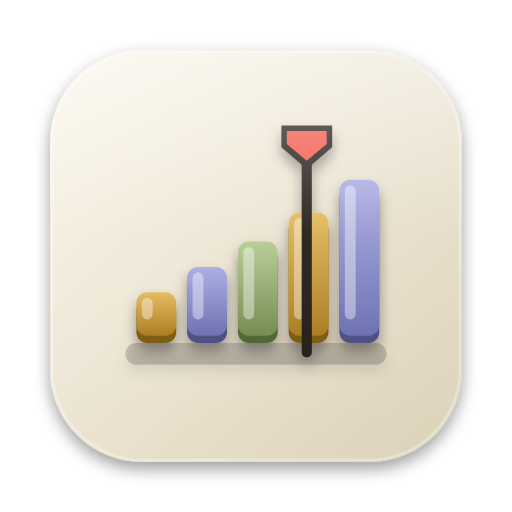
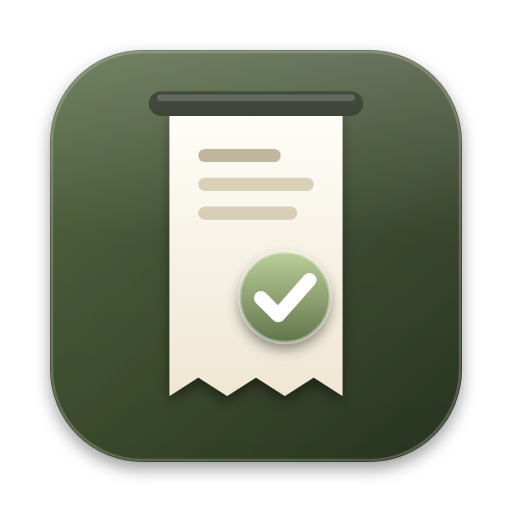
Novo icone: notinha imprimindo com check (oliva), animado no carregamento; troca em todos os icones do app
Claude-Session: https://claude.ai/code/session_01UJdyf8uUHnwzZ7wv9UqNQo

diff --git a/src/main.js b/src/main.js
@@ -860,7 +860,32 @@ function showToast(msg, undoFn){
 
 /* ---------------- marca Ritmo ---------------- */
 // icone (versao creme aprovada em 2026-09-27) desenhado aqui mesmo, sem arquivo
-const RITMO_ICONE = `<svg viewBox="0 0 1024 1024" aria-hidden="true"><defs><linearGradient id="rtmbg" x1="0" y1="0" x2="1" y2="1"><stop offset="0" stop-color="#FBF6EA"/><stop offset="1" stop-color="#DCD1B8"/></linearGradient><linearGradient id="rtmgl" x1="0" y1="0" x2="0" y2="1"><stop offset="0" stop-color="#fff" stop-opacity=".42"/><stop offset=".45" stop-color="#fff" stop-opacity=".06"/><stop offset="1" stop-color="#fff" stop-opacity="0"/></linearGradient><filter id="rtmsh" x="-10%" y="-10%" width="120%" height="130%"><feDropShadow dx="0" dy="14" stdDeviation="16" flood-opacity=".38"/></filter><filter id="rtmps"><feDropShadow dx="0" dy="2.2" stdDeviation="1.8" flood-color="#0b0a08" flood-opacity=".38"/></filter></defs><rect x="100" y="100" width="824" height="824" rx="185" fill="url(#rtmbg)"/><svg x="100" y="100" width="824" height="824" viewBox="0 0 100 100"><g transform="translate(6 6) scale(.88)" filter="url(#rtmps)"><defs><linearGradient id="rtmac0" x1="0" y1="0" x2="0" y2="1"><stop offset="0" stop-color="#E5B95C"/><stop offset="1" stop-color="#A87A1C"/></linearGradient><linearGradient id="rtmac1" x1="0" y1="0" x2="0" y2="1"><stop offset="0" stop-color="#A9ABE2"/><stop offset="1" stop-color="#6A6DB0"/></linearGradient><linearGradient id="rtmac2" x1="0" y1="0" x2="0" y2="1"><stop offset="0" stop-color="#B6CB93"/><stop offset="1" stop-color="#71884C"/></linearGradient><linearGradient id="rtmac3" x1="0" y1="0" x2="0" y2="1"><stop offset="0" stop-color="#E5B95C"/><stop offset="1" stop-color="#A87A1C"/></linearGradient><linearGradient id="rtmac4" x1="0" y1="0" x2="0" y2="1"><stop offset="0" stop-color="#A9ABE2"/><stop offset="1" stop-color="#6A6DB0"/></linearGradient></defs><rect x="14" y="74" width="72" height="6" rx="3" fill="#2B2620" opacity="0.22"/><rect x="17" y="62" width="11" height="12" rx="3" fill="#7A5810"/><rect x="17" y="60" width="11" height="12" rx="3" fill="url(#rtmac0)"/><rect x="18.5" y="61.5" width="3" height="6" rx="1.5" fill="#fff" opacity=".4"/><rect x="31" y="55" width="11" height="19" rx="3" fill="#4A4C81"/><rect x="31" y="53" width="11" height="19" rx="3" fill="url(#rtmac1)"/><rect x="32.5" y="54.5" width="3" height="13" rx="1.5" fill="#fff" opacity=".4"/><rect x="45" y="48" width="11" height="26" rx="3" fill="#4E6333"/><rect x="45" y="46" width="11" height="26" rx="3" fill="url(#rtmac2)"/><rect x="46.5" y="47.5" width="3" height="20" rx="1.5" fill="#fff" opacity=".4"/><rect x="59" y="40" width="11" height="34" rx="3" fill="#7A5810"/><rect x="59" y="38" width="11" height="34" rx="3" fill="url(#rtmac3)"/><rect x="60.5" y="39.5" width="3" height="28" rx="1.5" fill="#fff" opacity=".4"/><rect x="73" y="31" width="11" height="43" rx="3" fill="#4A4C81"/><rect x="73" y="29" width="11" height="43" rx="3" fill="url(#rtmac4)"/><rect x="74.5" y="30.5" width="3" height="37" rx="1.5" fill="#fff" opacity=".4"/><rect x="62.6" y="20" width="2.8" height="58" rx="1.4" fill="#211D18"/><path d="M57 14h14v6l-7 6-7-6z" fill="#211D18"/><path d="M58.5 15.5h11v3.6l-5.5 4.6-5.5-4.6z" fill="#F4574B"/></g></svg><rect x="100" y="100" width="824" height="824" rx="185" fill="url(#rtmgl)"/><rect x="104" y="104" width="816" height="816" rx="181" fill="none" stroke="#fff" stroke-opacity=".32" stroke-width="5"/></svg>`;
+// marca: notinha saindo da maquininha com o check. Parada no cabecalho (o render
+// recria a tela a cada acao, a animacao reiniciaria); animada so no carregamento.
+const RITMO_ICONE = `<svg viewBox="0 0 1024 1024" aria-hidden="true"><defs><linearGradient id="rtmbg" x1="0" y1="0" x2="1" y2="1"><stop offset="0" stop-color="#4D6039"/><stop offset="1" stop-color="#27321F"/></linearGradient><linearGradient id="rtmgl" x1="0" y1="0" x2="0" y2="1"><stop offset="0" stop-color="#fff" stop-opacity=".22"/><stop offset=".45" stop-color="#fff" stop-opacity=".03"/><stop offset="1" stop-color="#fff" stop-opacity="0"/></linearGradient><filter id="rtmsh" x="-10%" y="-10%" width="120%" height="130%"><feDropShadow dx="0" dy="14" stdDeviation="16" flood-opacity=".38"/></filter></defs><rect x="100" y="100" width="824" height="824" rx="185" fill="url(#rtmbg)"/><svg x="100" y="100" width="824" height="824" viewBox="0 0 100 100"><defs>
+<linearGradient id="rtmsg" x1="0" y1="0" x2="0" y2="1"><stop offset="0" stop-color="#B9CE97"/><stop offset="1" stop-color="#5F7248"/></linearGradient>
+<linearGradient id="rtmpp" x1="0" y1="0" x2="0" y2="1"><stop offset="0" stop-color="#FFFDF7"/><stop offset="1" stop-color="#EFE7D3"/></linearGradient>
+<filter id="rtmps" x="-20%" y="-10%" width="140%" height="130%"><feDropShadow dx="0" dy="1.6" stdDeviation="1.6" flood-color="#0b0f07" flood-opacity=".45"/></filter>
+<clipPath id="rtmcl"><rect x="0" y="16" width="100" height="90"/></clipPath></defs>
+<g clip-path="url(#rtmcl)"><g filter="url(#rtmps)">
+<path d="M29 14h42v70l-7-4.5-7 4.5-7-4.5-7 4.5-7-4.5-7 4.5z" fill="url(#rtmpp)"/>
+<rect x="36" y="24" width="20" height="3.2" rx="1.6" fill="#B9AE92"/><rect x="36" y="31" width="28" height="3.2" rx="1.6" fill="#D6CCB2"/><rect x="36" y="38" width="24" height="3.2" rx="1.6" fill="#D6CCB2"/>
+</g></g>
+<rect x="24" y="10" width="52" height="6" rx="3" fill="#1B2415"/><rect x="26" y="10.8" width="48" height="1.6" rx=".8" fill="#fff" opacity=".18"/>
+<g style="transform-box:fill-box;transform-origin:center"><circle cx="57" cy="60" r="11" fill="url(#rtmsg)" filter="url(#rtmps)"/><circle cx="57" cy="60" r="11" fill="none" stroke="#fff" stroke-opacity=".35" stroke-width=".8"/></g>
+<path d="M51.2 60.2l4.2 4.2 7.6-8.6" pathLength="1" fill="none" stroke="#fff" stroke-width="3.4" stroke-linecap="round" stroke-linejoin="round"/></svg><rect x="100" y="100" width="824" height="824" rx="185" fill="url(#rtmgl)"/><rect x="104" y="104" width="816" height="816" rx="181" fill="none" stroke="#fff" stroke-opacity=".2" stroke-width="5"/></svg>`;
+const RITMO_ICONE_ANIM = `<svg viewBox="0 0 1024 1024" aria-hidden="true"><defs><linearGradient id="rtabg" x1="0" y1="0" x2="1" y2="1"><stop offset="0" stop-color="#4D6039"/><stop offset="1" stop-color="#27321F"/></linearGradient><linearGradient id="rtagl" x1="0" y1="0" x2="0" y2="1"><stop offset="0" stop-color="#fff" stop-opacity=".22"/><stop offset=".45" stop-color="#fff" stop-opacity=".03"/><stop offset="1" stop-color="#fff" stop-opacity="0"/></linearGradient><filter id="rtash" x="-10%" y="-10%" width="120%" height="130%"><feDropShadow dx="0" dy="14" stdDeviation="16" flood-opacity=".38"/></filter></defs><rect x="100" y="100" width="824" height="824" rx="185" fill="url(#rtabg)"/><svg x="100" y="100" width="824" height="824" viewBox="0 0 100 100"><defs>
+<linearGradient id="rtasg" x1="0" y1="0" x2="0" y2="1"><stop offset="0" stop-color="#B9CE97"/><stop offset="1" stop-color="#5F7248"/></linearGradient>
+<linearGradient id="rtapp" x1="0" y1="0" x2="0" y2="1"><stop offset="0" stop-color="#FFFDF7"/><stop offset="1" stop-color="#EFE7D3"/></linearGradient>
+<filter id="rtaps" x="-20%" y="-10%" width="140%" height="130%"><feDropShadow dx="0" dy="1.6" stdDeviation="1.6" flood-color="#0b0f07" flood-opacity=".45"/></filter>
+<clipPath id="rtacl"><rect x="0" y="16" width="100" height="90"/></clipPath></defs>
+<g clip-path="url(#rtacl)"><g class="rn-paper" filter="url(#rtaps)">
+<path d="M29 14h42v70l-7-4.5-7 4.5-7-4.5-7 4.5-7-4.5-7 4.5z" fill="url(#rtapp)"/>
+<rect x="36" y="24" width="20" height="3.2" rx="1.6" fill="#B9AE92"/><rect x="36" y="31" width="28" height="3.2" rx="1.6" fill="#D6CCB2"/><rect x="36" y="38" width="24" height="3.2" rx="1.6" fill="#D6CCB2"/>
+</g></g>
+<rect x="24" y="10" width="52" height="6" rx="3" fill="#1B2415"/><rect x="26" y="10.8" width="48" height="1.6" rx=".8" fill="#fff" opacity=".18"/>
+<g class="rn-circ" style="transform-box:fill-box;transform-origin:center"><circle cx="57" cy="60" r="11" fill="url(#rtasg)" filter="url(#rtaps)"/><circle cx="57" cy="60" r="11" fill="none" stroke="#fff" stroke-opacity=".35" stroke-width=".8"/></g>
+<path class="rn-ck" d="M51.2 60.2l4.2 4.2 7.6-8.6" pathLength="1" fill="none" stroke="#fff" stroke-width="3.4" stroke-linecap="round" stroke-linejoin="round"/></svg><rect x="100" y="100" width="824" height="824" rx="185" fill="url(#rtagl)"/><rect x="104" y="104" width="816" height="816" rx="181" fill="none" stroke="#fff" stroke-opacity=".2" stroke-width="5"/></svg>`;
 const BETA = import.meta.env.MODE === 'beta';
 
 /* ---------------- rendering ---------------- */
@@ -2616,7 +2641,7 @@ function esqueletoHtml(){
   const nav = (ic, t, on) => `<span class="${on?'on':''}">${ic}<span>${t}</span></span>`;
   return `<div class="off-app" aria-hidden="true">
     <div class="off-topo">
-      <div><div class="ritmo-marca">${RITMO_ICONE}<span class="wm">ritmo<i>.</i></span></div>${sk('min(320px,70vw)', 30, 'margin-top:6px')}</div>
+      <div><div class="ritmo-marca">${RITMO_ICONE_ANIM}<span class="wm">ritmo<i>.</i></span></div>${sk('min(320px,70vw)', 30, 'margin-top:6px')}</div>
       <div class="off-nav">${nav(iconChart(), 'Painel', true)}${nav(iconList(), 'Lançamentos')}${nav(iconDoc(15), 'Notas emitidas')}${nav(iconGear(15), 'Configurações')}</div>
     </div>
     <div class="off-grade">${cartao('Faturado no ano')}${cartao('Limite MEI')}${cartao('Meta do mês')}</div>
@@ -2638,7 +2663,7 @@ function mostrarSemConexao(){
     <div class="off-veu"></div>
     <div class="off-aviso" role="alertdialog" aria-labelledby="off-t" aria-describedby="off-x">
       <span class="off-alca"></span>
-      <span class="off-icone">${RITMO_ICONE}<span class="off-selo">${wifi}</span></span>
+      <span class="off-icone">${RITMO_ICONE_ANIM}<span class="off-selo">${wifi}</span></span>
       <h2 id="off-t">${titulo}</h2>
       <p id="off-x">${texto}</p>
       <button type="button" class="off-btn" onclick="location.reload()">Tentar de novo</button>

diff --git a/index.html b/index.html
@@ -1092,9 +1092,17 @@ body{overflow-x:hidden;}
 
 /* marca no topo + faixa do beta */
 .ritmo-marca{display:flex;align-items:center;gap:8px;margin-bottom:6px;}
-.ritmo-marca svg{width:28px;height:28px;display:block;flex:0 0 auto;}
+.ritmo-marca>svg{width:28px;height:28px;display:block;flex:0 0 auto;}
 .ritmo-marca .wm{font-family:'Fraunces',Georgia,serif;font-weight:700;font-size:19px;letter-spacing:-.02em;line-height:1;color:var(--ink);}
 .ritmo-marca .wm i{font-style:normal;color:#B98A2B;}
+/* notinha imprimindo + check (so no icone animado) */
+@keyframes rn-print{0%{transform:translateY(-70px)}25%{transform:translateY(-52px)}34%{transform:translateY(-52px)}60%{transform:translateY(-24px)}68%{transform:translateY(-24px)}100%{transform:translateY(0)}}
+@keyframes rn-pop{0%{transform:scale(0)}70%{transform:scale(1.18)}100%{transform:scale(1)}}
+@keyframes rn-draw{from{stroke-dashoffset:1}to{stroke-dashoffset:0}}
+.rn-paper{animation:rn-print 1.5s cubic-bezier(.4,0,.3,1) both;}
+.rn-circ{animation:rn-pop .45s cubic-bezier(.3,1.4,.5,1) 1.55s both;}
+.rn-ck{stroke-dasharray:1;animation:rn-draw .4s ease-out 1.9s both;}
+@media (prefers-reduced-motion:reduce){.rn-paper,.rn-circ,.rn-ck{animation:none}}
 .faixa-beta{margin:0 auto 12px;max-width:560px;text-align:center;font:800 11px 'Public Sans',sans-serif;letter-spacing:.08em;color:#2A1C06;background:#F0C987;border-radius:8px;padding:5px 10px;}
 
 /* olho de ocultar valores: so o icone, redondo */
@@ -1184,7 +1192,7 @@ body{overflow-x:hidden;}
   .topbar{padding:48px 4px 20px;gap:10px;}
   .brand h1{font-size:30px;line-height:1.1;}
   .brand .sub{font-size:13px;margin-top:6px;}
-  .ritmo-marca svg{width:34px;height:34px;}
+  .ritmo-marca>svg{width:34px;height:34px;}
   .ritmo-marca .wm{font-size:22px;}
   .faixa-beta{margin-top:12px;}
   .privacy-toggle{width:48px;height:48px;background:var(--surface);border:0;box-shadow:0 1px 2px rgba(34,30,25,.10);}
